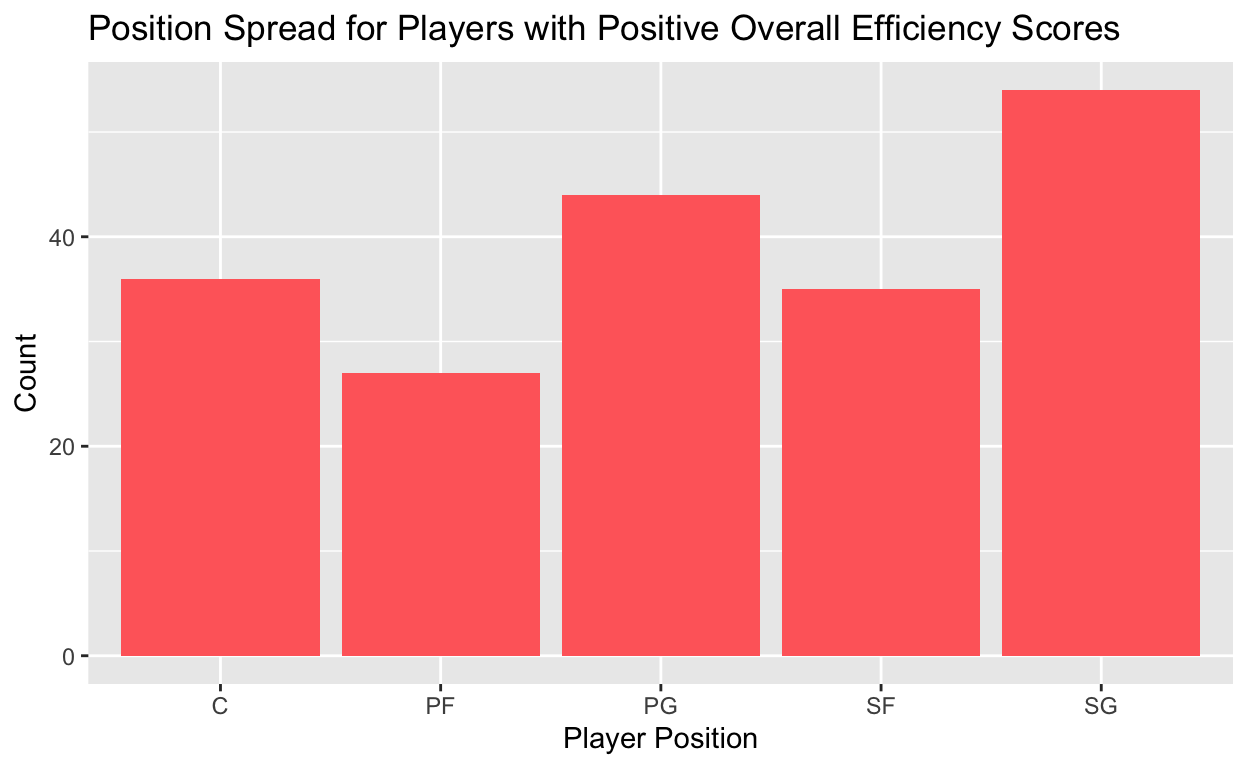
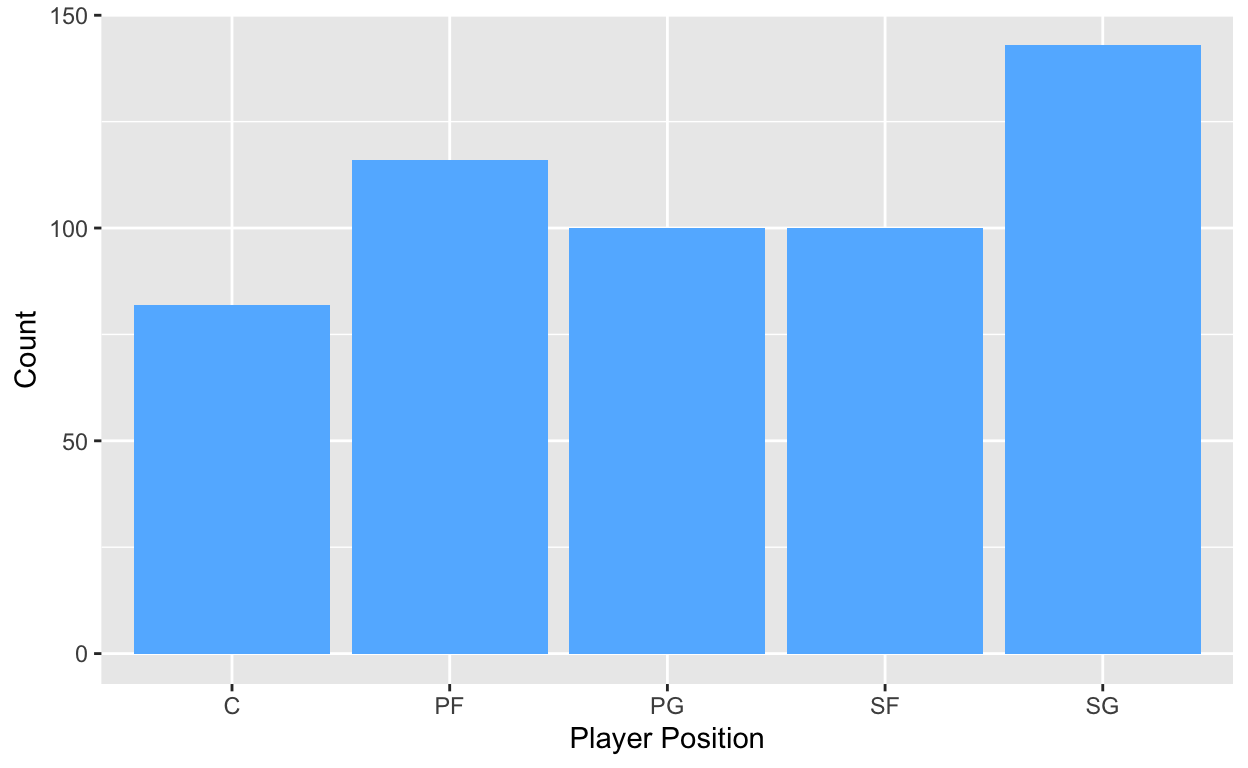
erm

diff --git a/index.html b/index.html
@@ -115,7 +115,7 @@ code span.wa { color: #5e5e5e; font-style: italic; } /* Warning */
   <!--/radix_placeholder_rmarkdown_metadata-->
   
   <script type="text/json" id="radix-resource-manifest">
-  {"type":"character","attributes":{},"value":["index_files/anchor-4.2.2/anchor.min.js","index_files/bowser-1.9.3/bowser.min.js","index_files/distill-2.2.21/template.v2.js","index_files/figure-html5/unnamed-chunk-2-1.png","index_files/figure-html5/unnamed-chunk-3-1.png","index_files/figure-html5/unnamed-chunk-4-1.png","index_files/header-attrs-2.17/header-attrs.js","index_files/header-attrs-2.24/header-attrs.js","index_files/jquery-3.6.0/jquery-3.6.0.js","index_files/jquery-3.6.0/jquery-3.6.0.min.js","index_files/jquery-3.6.0/jquery-3.6.0.min.map","index_files/kePrint-0.0.1/kePrint.js","index_files/lightable-0.0.1/lightable.css","index_files/popper-2.6.0/popper.min.js","index_files/tippy-6.2.7/tippy-bundle.umd.min.js","index_files/tippy-6.2.7/tippy-light-border.css","index_files/tippy-6.2.7/tippy.css","index_files/tippy-6.2.7/tippy.umd.min.js","index_files/webcomponents-2.0.0/webcomponents.js","latest_RAPTOR_by_player_edited.csv","latest_RAPTOR_by_player_edited.numbers","latest_RAPTOR_by_player.csv","player_data - Sheet2.csv","players_data - Sheet2.csv"]}
+  {"type":"character","attributes":{},"value":["index_files/anchor-4.2.2/anchor.min.js","index_files/bowser-1.9.3/bowser.min.js","index_files/distill-2.2.21/template.v2.js","index_files/figure-html5/unnamed-chunk-2-1.png","index_files/figure-html5/unnamed-chunk-3-1.png","index_files/figure-html5/unnamed-chunk-4-1.png","index_files/figure-html5/unnamed-chunk-5-1.png","index_files/header-attrs-2.17/header-attrs.js","index_files/header-attrs-2.24/header-attrs.js","index_files/jquery-3.6.0/jquery-3.6.0.js","index_files/jquery-3.6.0/jquery-3.6.0.min.js","index_files/jquery-3.6.0/jquery-3.6.0.min.map","index_files/kePrint-0.0.1/kePrint.js","index_files/lightable-0.0.1/lightable.css","index_files/popper-2.6.0/popper.min.js","index_files/tippy-6.2.7/tippy-bundle.umd.min.js","index_files/tippy-6.2.7/tippy-light-border.css","index_files/tippy-6.2.7/tippy.css","index_files/tippy-6.2.7/tippy.umd.min.js","index_files/webcomponents-2.0.0/webcomponents.js","latest_RAPTOR_by_player_edited.csv","latest_RAPTOR_by_player_edited.numbers","latest_RAPTOR_by_player.csv","player_data - Sheet2.csv","players_data - Sheet2.csv"]}
   </script>
   <!--radix_placeholder_navigation_in_header-->
   <!--/radix_placeholder_navigation_in_header-->
@@ -1549,7 +1549,24 @@ code span.wa { color: #5e5e5e; font-style: italic; } /* Warning */
 #   war_reg_season &lt;dbl&gt;, war_playoffs &lt;dbl&gt;, …</code></pre>
 </div>
 <h2 id="data">Data</h2>
+<div class="layout-chunk" data-layout="l-body">
+<div class="sourceCode">
+<pre class="sourceCode r"><code class="sourceCode r"><span><span class='va'>pos_mean</span> <span class='op'>&lt;-</span> <span class='va'>players</span> <span class='op'>|&gt;</span></span>
+<span>  <span class='fu'><a href='https://dplyr.tidyverse.org/reference/filter.html'>filter</a></span><span class='op'>(</span><span class='va'>raptor_total</span> <span class='op'>&gt;</span> <span class='fl'>0</span><span class='op'>)</span> <span class='op'>|&gt;</span></span>
+<span>  <span class='fu'><a href='https://dplyr.tidyverse.org/reference/group_by.html'>group_by</a></span><span class='op'>(</span><span class='va'>position</span><span class='op'>)</span> <span class='op'>|&gt;</span></span>
+<span>  <span class='fu'><a href='https://dplyr.tidyverse.org/reference/summarise.html'>summarize</a></span><span class='op'>(</span>rap_mean <span class='op'>=</span> <span class='fu'><a href='https://rdrr.io/r/base/mean.html'>mean</a></span><span class='op'>(</span><span class='va'>raptor_total</span><span class='op'>)</span><span class='op'>)</span></span>
+<span><span class='va'>rap_plot</span> <span class='op'>&lt;-</span> <span class='va'>pos_mean</span> <span class='op'>|&gt;</span></span>
+<span>  <span class='fu'><a href='https://ggplot2.tidyverse.org/reference/ggplot.html'>ggplot</a></span><span class='op'>(</span>mapping <span class='op'>=</span> <span class='fu'><a href='https://ggplot2.tidyverse.org/reference/aes.html'>aes</a></span><span class='op'>(</span>x <span class='op'>=</span> <span class='va'>position</span>, y <span class='op'>=</span> <span class='va'>rap_mean</span><span class='op'>)</span><span class='op'>)</span> <span class='op'>+</span></span>
+<span>  <span class='fu'><a href='https://ggplot2.tidyverse.org/reference/geom_bar.html'>geom_col</a></span><span class='op'>(</span>fill <span class='op'>=</span> <span class='st'>"coral"</span><span class='op'>)</span> <span class='op'>+</span></span>
+<span>  <span class='fu'><a href='https://ggplot2.tidyverse.org/reference/labs.html'>labs</a></span><span class='op'>(</span>title <span class='op'>=</span> <span class='st'>"Average Efficiency Score By Player Position"</span>, </span>
+<span>       caption <span class='op'>=</span> <span class='st'>"*only mapping players with a positive efficiency score"</span>, </span>
+<span>       x <span class='op'>=</span> <span class='st'>"Player Position"</span>, y <span class='op'>=</span> <span class='st'>"Average Efficiency Score"</span><span class='op'>)</span></span>
+<span><span class='va'>rap_plot</span></span></code></pre>
+</div>
+<p><img src="index_files/figure-html5/unnamed-chunk-2-1.png" width="624" /></p>
+</div>
 <p>For this project, I am using a data set which utilizes FiveThirtyEight’s NBA statistic, “RAPTOR”, to track points per possession for all 2023 NBA players. RAPTOR stands for “Robust Algorithm (using) Player Tracking (and) On/Off Ratings” and is a metric used to evaluate and quantify player performance. In this project, the explanatory variable of interest is player position, which is less of a measurable variable and more of a categorical variable which divides the data entries (all 2023 NBA players) into five categories based on position. My outcome variable of interest is points contributed per 100 possessions calculated for each entry (player). In the data set that I am using, this variable is measured in nine different ways which differ in their attention to variations such as offensive versus defensive productivity as well as isolated personal productivity versus personal productivity taking into consideration other players on and off the court and other confounding factors. In order to come to the most all-encompassing conclusions, I will be focusing on the <code>raptor_total</code> variable, which is essentially a cumulative points per possession rating calculated based on the other more specific variables previously explained.</p>
+<p>The above bar plot maps the average efficiency score of each player position, only taking into account the 196 players with positive overall efficiency scores. Players with negative overall efficiency scores have been excluded from this visualization.</p>
 <h2 id="results">Results</h2>
 <div class="layout-chunk" data-layout="l-body">
 <div class="sourceCode">
@@ -1559,7 +1576,7 @@ code span.wa { color: #5e5e5e; font-style: italic; } /* Warning */
 <span>  <span class='fu'><a href='https://ggplot2.tidyverse.org/reference/labs.html'>labs</a></span><span class='op'>(</span>x <span class='op'>=</span> <span class='st'>"Player Position"</span>, y <span class='op'>=</span> <span class='st'>"Count"</span><span class='op'>)</span></span>
 <span><span class='va'>position_spread</span></span></code></pre>
 </div>
-<p><img src="index_files/figure-html5/unnamed-chunk-2-1.png" width="624" /></p>
+<p><img src="index_files/figure-html5/unnamed-chunk-3-1.png" width="624" /></p>
 </div>
 <div class="layout-chunk" data-layout="l-body">
 <div class="sourceCode">
@@ -1571,7 +1588,7 @@ code span.wa { color: #5e5e5e; font-style: italic; } /* Warning */
 <span>       x <span class='op'>=</span> <span class='st'>"Player Position"</span>, y <span class='op'>=</span> <span class='st'>"Count"</span><span class='op'>)</span></span>
 <span><span class='va'>top_position_spread</span></span></code></pre>
 </div>
-<p><img src="index_files/figure-html5/unnamed-chunk-3-1.png" width="624" /></p>
+<p><img src="index_files/figure-html5/unnamed-chunk-4-1.png" width="624" /></p>
 </div>
 <div class="layout-chunk" data-layout="l-body">
 <div class="sourceCode">
@@ -1579,18 +1596,7 @@ code span.wa { color: #5e5e5e; font-style: italic; } /* Warning */
 <span>  <span class='fu'><a href='https://dplyr.tidyverse.org/reference/filter.html'>filter</a></span><span class='op'>(</span><span class='va'>raptor_total</span> <span class='op'>&gt;</span> <span class='fl'>0</span><span class='op'>)</span> <span class='op'>|&gt;</span></span>
 <span>  <span class='fu'><a href='https://dplyr.tidyverse.org/reference/group_by.html'>group_by</a></span><span class='op'>(</span><span class='va'>position</span><span class='op'>)</span> <span class='op'>|&gt;</span></span>
 <span>  <span class='fu'><a href='https://dplyr.tidyverse.org/reference/summarise.html'>summarize</a></span><span class='op'>(</span>rap_mean <span class='op'>=</span> <span class='fu'><a href='https://rdrr.io/r/base/mean.html'>mean</a></span><span class='op'>(</span><span class='va'>raptor_total</span><span class='op'>)</span><span class='op'>)</span></span>
-<span><span class='va'>pos_mean</span></span></code></pre>
-</div>
-<pre><code># A tibble: 5 × 2
-  position rap_mean
-  &lt;chr&gt;       &lt;dbl&gt;
-1 C            2.40
-2 PF           3.08
-3 PG           2.68
-4 SF           2.28
-5 SG           4.76</code></pre>
-<div class="sourceCode">
-<pre class="sourceCode r"><code class="sourceCode r"><span><span class='va'>rap_plot</span> <span class='op'>&lt;-</span> <span class='va'>pos_mean</span> <span class='op'>|&gt;</span></span>
+<span><span class='va'>rap_plot</span> <span class='op'>&lt;-</span> <span class='va'>pos_mean</span> <span class='op'>|&gt;</span></span>
 <span>  <span class='fu'><a href='https://ggplot2.tidyverse.org/reference/ggplot.html'>ggplot</a></span><span class='op'>(</span>mapping <span class='op'>=</span> <span class='fu'><a href='https://ggplot2.tidyverse.org/reference/aes.html'>aes</a></span><span class='op'>(</span>x <span class='op'>=</span> <span class='va'>position</span>, y <span class='op'>=</span> <span class='va'>rap_mean</span><span class='op'>)</span><span class='op'>)</span> <span class='op'>+</span></span>
 <span>  <span class='fu'><a href='https://ggplot2.tidyverse.org/reference/geom_bar.html'>geom_col</a></span><span class='op'>(</span>fill <span class='op'>=</span> <span class='st'>"coral"</span><span class='op'>)</span> <span class='op'>+</span></span>
 <span>  <span class='fu'><a href='https://ggplot2.tidyverse.org/reference/labs.html'>labs</a></span><span class='op'>(</span>title <span class='op'>=</span> <span class='st'>"Average Efficiency Score By Player Position"</span>, </span>
@@ -1598,7 +1604,7 @@ code span.wa { color: #5e5e5e; font-style: italic; } /* Warning */
 <span>       x <span class='op'>=</span> <span class='st'>"Player Position"</span>, y <span class='op'>=</span> <span class='st'>"Average Efficiency Score"</span><span class='op'>)</span></span>
 <span><span class='va'>rap_plot</span></span></code></pre>
 </div>
-<p><img src="index_files/figure-html5/unnamed-chunk-4-1.png" width="624" /></p>
+<p><img src="index_files/figure-html5/unnamed-chunk-5-1.png" width="624" /></p>
 </div>
 <div class="layout-chunk" data-layout="l-body">
 <div class="sourceCode">
@@ -1717,10 +1723,10 @@ R2
 </tbody>
 </table>
 </div>
-<p>The first graph, in blue, represents the spread of player position across all 2023 NBA players. Player position is graphed on the x-axis, and the number of players at each position is mapped on the y-axis. The second graph, in red, is the same format as the first, except that it only maps the players with a positive overall efficiency score, which equates to the 196 players with the highest overall efficiency scores. The third and final graph, in orange, maps the average efficiency score of each player position, only taking into account the aforementioned 196 players with positive overall efficiency scores. The following table reflects the same values as the final bar plot, only in a format where the averages can be easily compared with one another.</p>
+<p>The first graph, in blue, represents the spread of player position across all 2023 NBA players. Player position is graphed on the x-axis, and the number of players at each position is mapped on the y-axis. The second graph, in red, is the same format as the first, except that it only maps the players with a positive overall efficiency score, which equates to the 196 players with the highest overall efficiency scores. The third and final graph, in orange, is the same as that which is shown in the “Data” section, and maps the average efficiency score of each player position, only taking into account the aforementioned 196 players with positive overall efficiency scores. The following table reflects the same values as the final bar plot, only in a format where the averages can be easily compared with one another.</p>
 <p>Among the top 196 players in the data set (those with a positive overall RAPTOR efficiency score), shooting guards, on average, reported the highest efficiency scores (an average of ~4.76), while small forwards reported the lowest (an average of ~2.28). In order from greatest to smallest, the average efficiency scores of power forwards (~3.08), point guards (~2.68), and centers (~2.40) fell in between the averages of shooting guards and small forwards. Although centers, falling second lowest on average efficiency ratings, do not disprove my hypothesis, the sheer dominance of shooting guards in this comparison strongly counters my hypothesis of shooting guards being outperformed, on average, by forwards and point guards.</p>
 <p>The final table demonstrates the difference in means between the five player positions. Again, this table is taking into account only the top 196 players who are reported as having a positive overall efficiency score. In this table, the “Intercept” value of 2.401 represents the average efficiency score for players who are centers. The value of 0.683 in the “Power Forward” row represents the difference in average efficiency score between centers and power forwards, in that power forwards on average have an efficiency score that is 0.683 points higher than that of centers. The value of 0.282 in the “Point Guard” row represents the difference in average efficiency score between centers and point guards, showing that point guards on average have an efficiency score that is 0.282 points higher than that of centers. The value of -0.116 in the “Small Forward” row represents the difference in average efficiency score between centers and small forwards, indicating that small forwards on average have an efficiency score that is 0.116 points lower than that of centers. Finally, the value of 2.361 in the “Shooting Guard” row represents the difference in average efficiency score between centers and shooting guards, demonstrating that shooting guards on average have an efficiency score that is 2.361 points higher than that of centers.</p>
-<div class="sourceCode" id="cb3"><pre class="sourceCode r distill-force-highlighting-css"><code class="sourceCode r"></code></pre></div>
+<div class="sourceCode" id="cb2"><pre class="sourceCode r distill-force-highlighting-css"><code class="sourceCode r"></code></pre></div>
 <!--radix_placeholder_article_footer-->
 <!--/radix_placeholder_article_footer-->
 </div>
